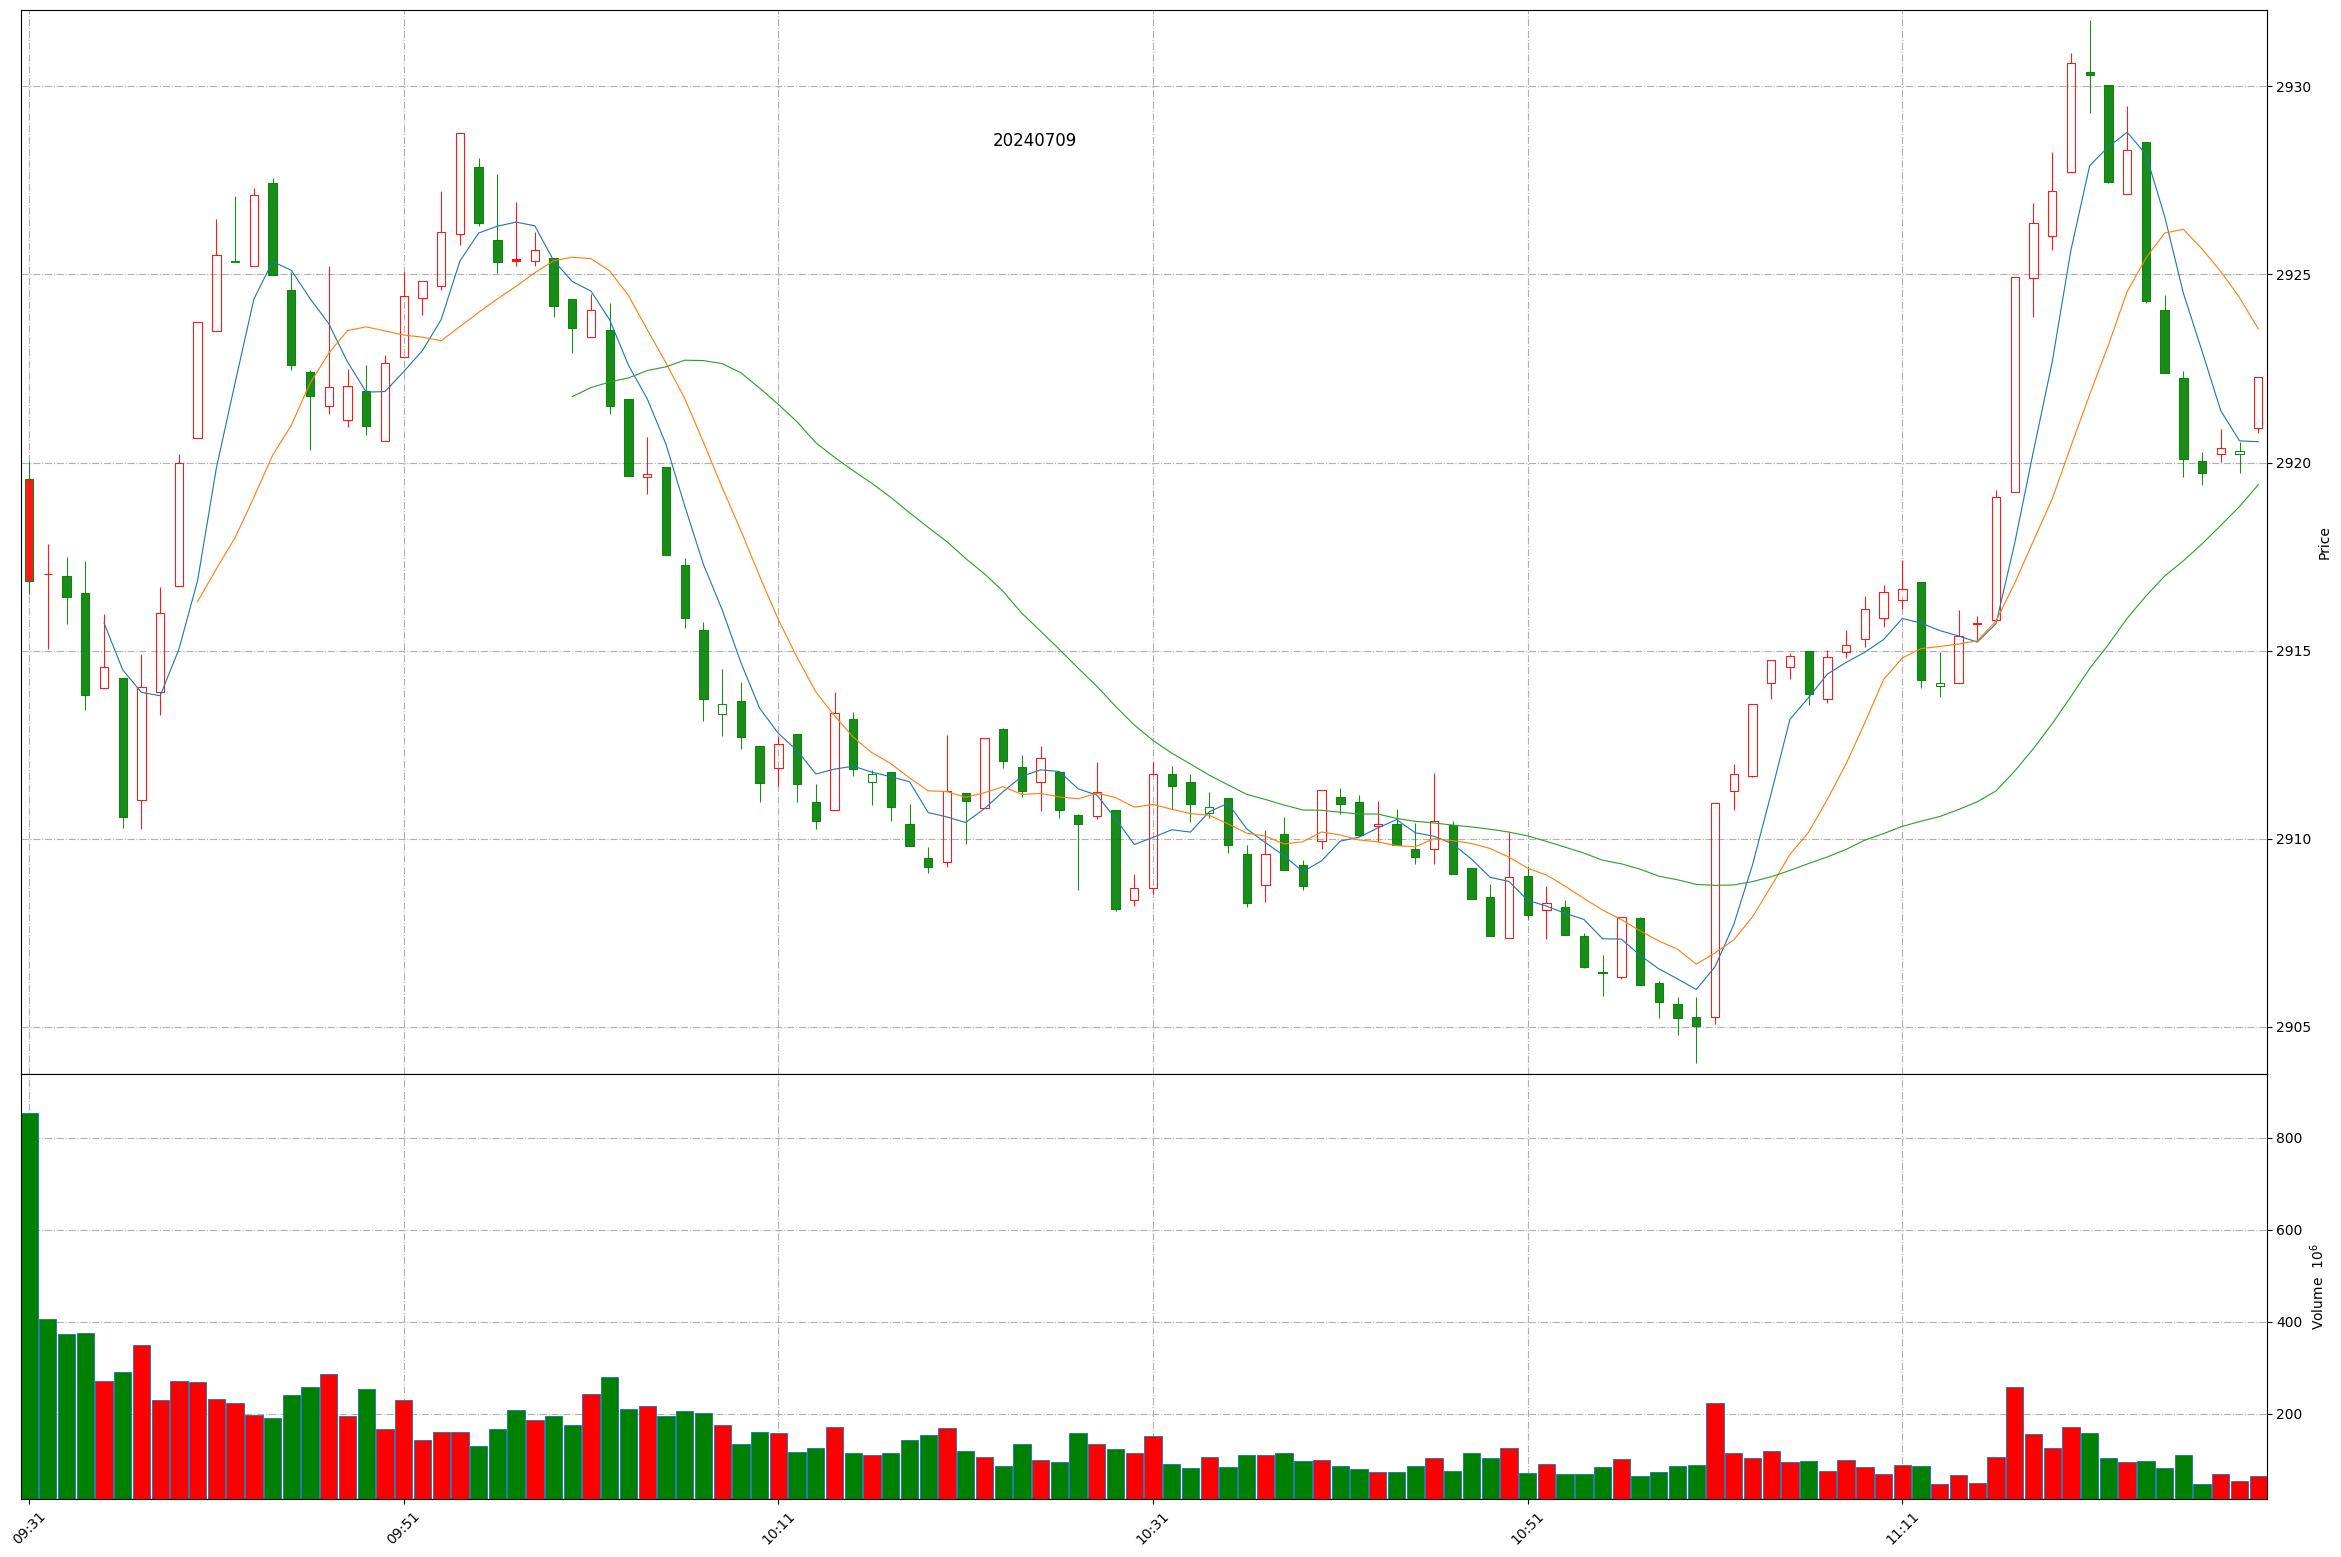
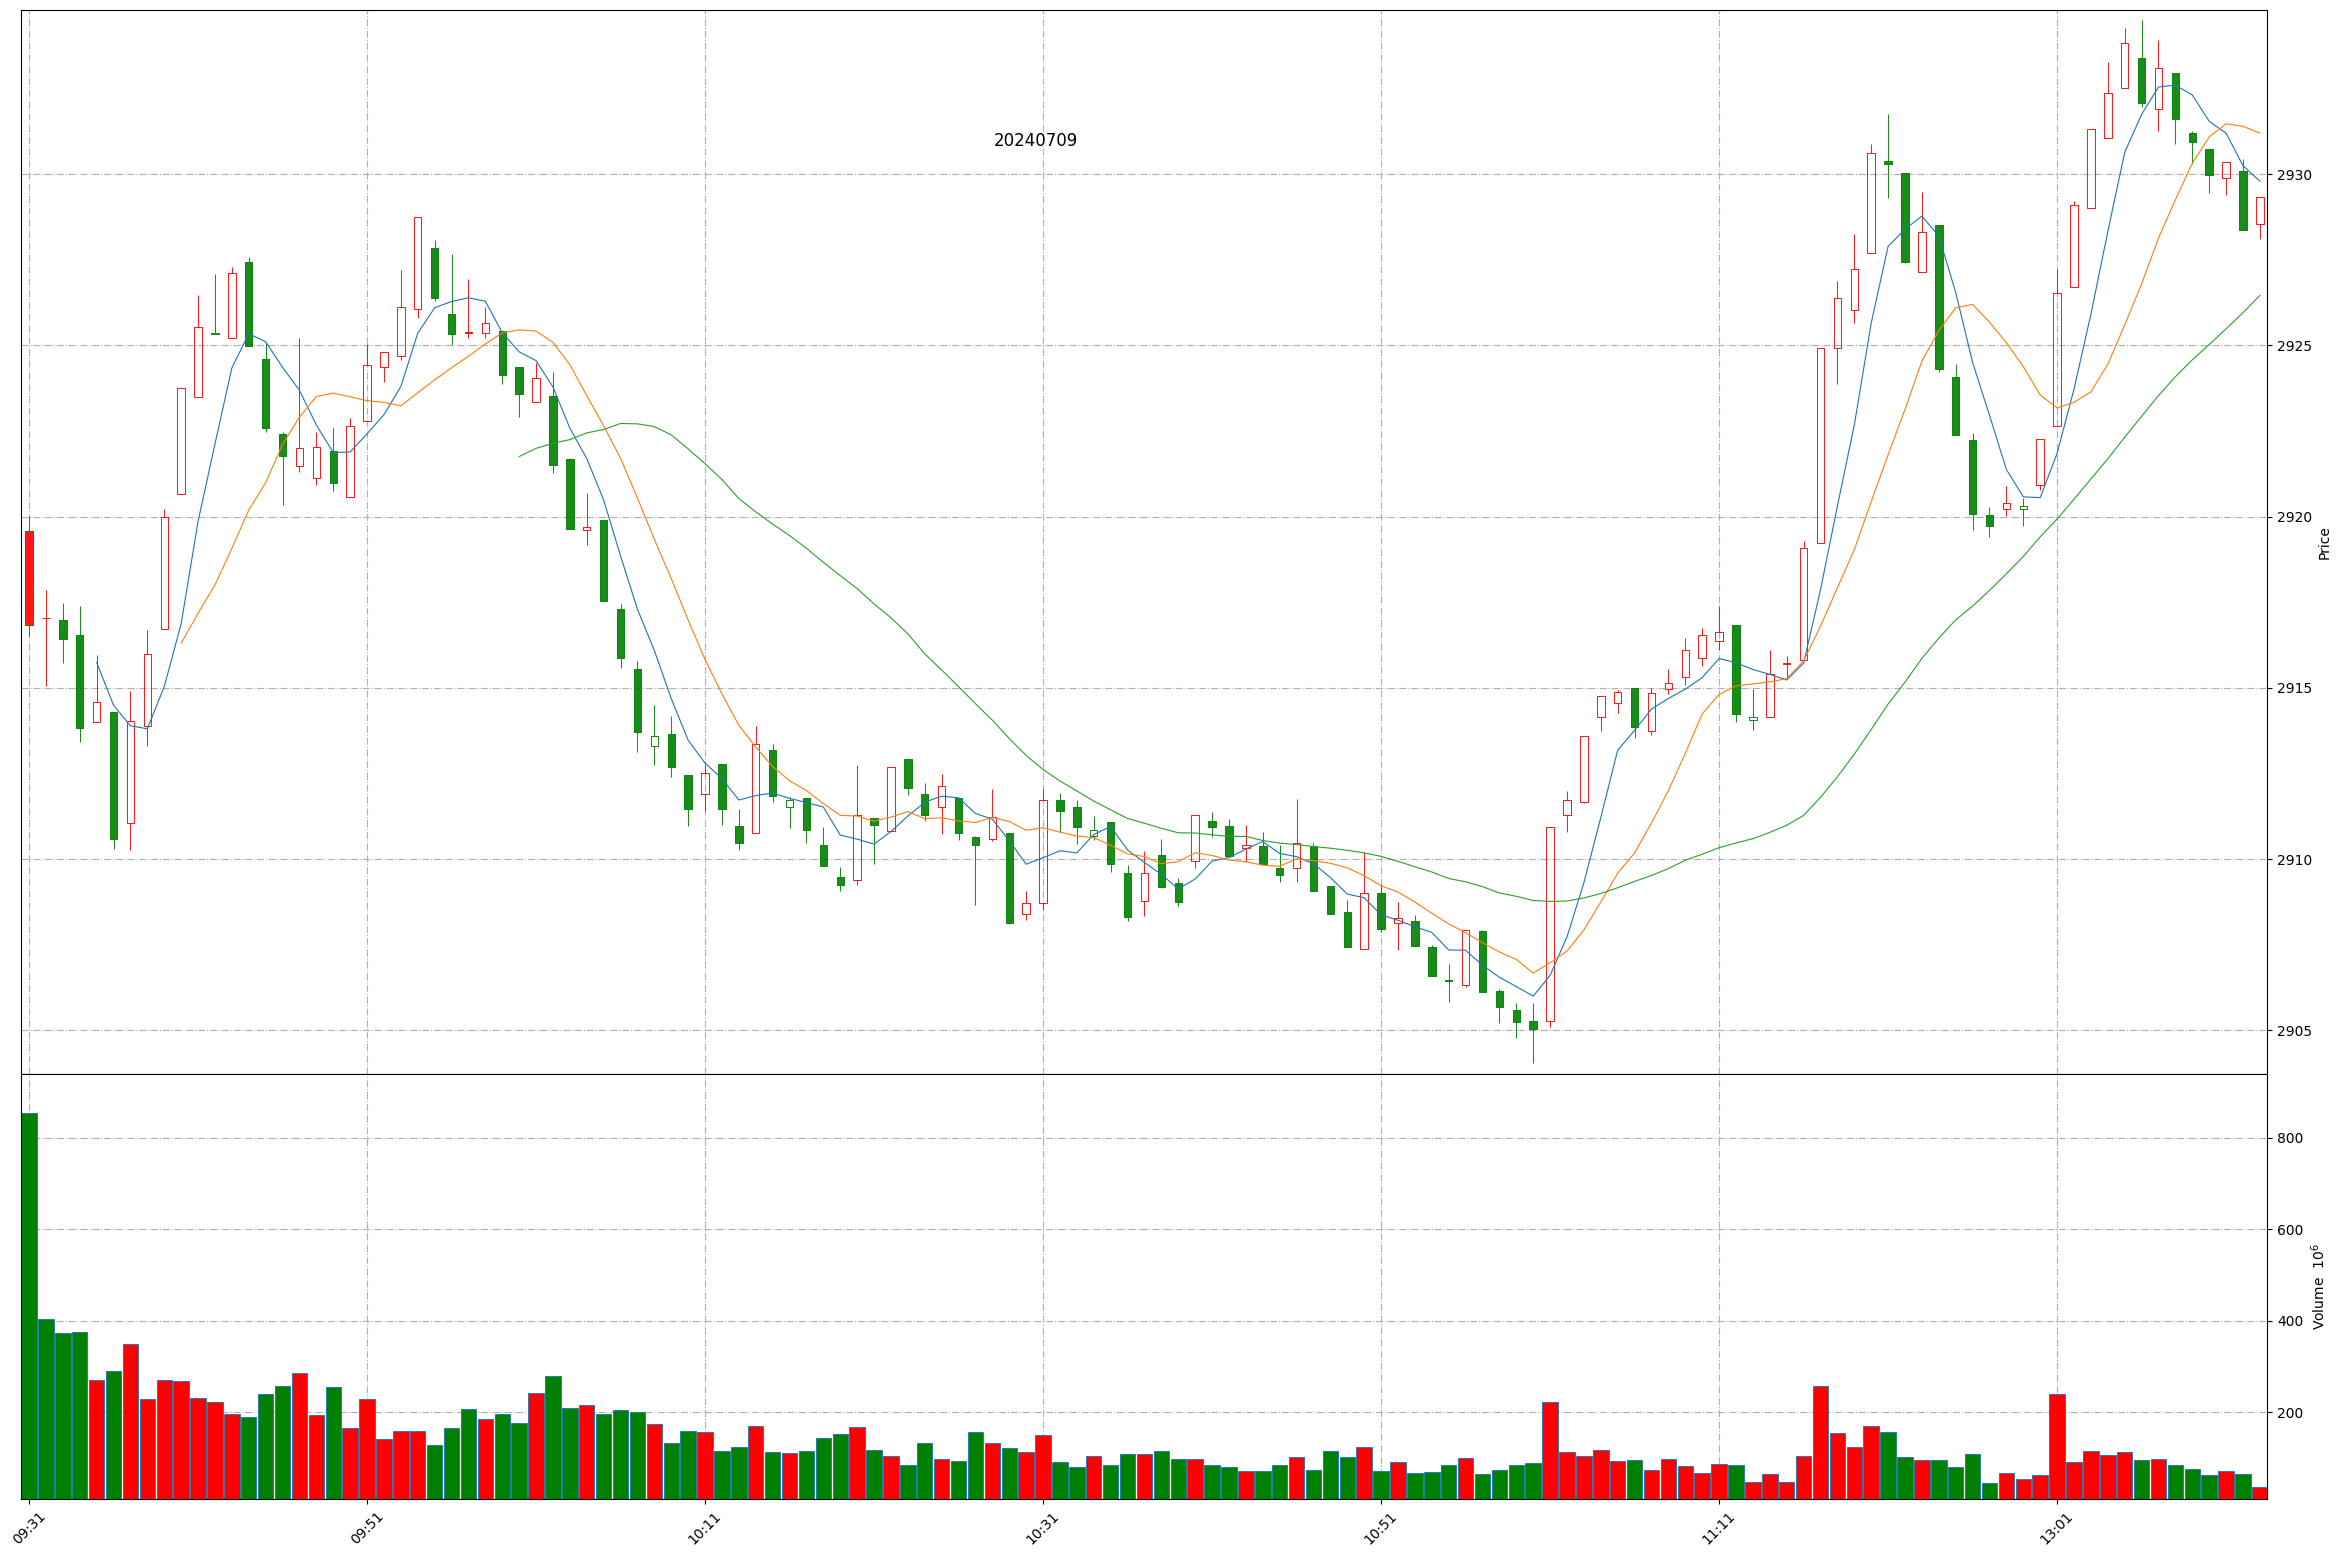
Github action update at 2024-07-09 13:12:42.

diff --git a/README.md b/README.md
@@ -1,11 +1,11 @@
 
 # Daily-A-share-market-quotes 每日 A 股指数（5min 更新）- 20240709
 
-### 上证指数 20240709 11:36
+### 上证指数 20240709 13:12
 ![](./fig/2024/7/20240709-sh000001.png)
 
-### 深证成指 20240709 11:36
+### 深证成指 20240709 13:12
 ![](./fig/2024/7/20240709-sz399001.png)
 
-### 北证50 20240709 11:36
+### 北证50 20240709 13:12
 ![](./fig/2024/7/20240709-bj899050.png)
